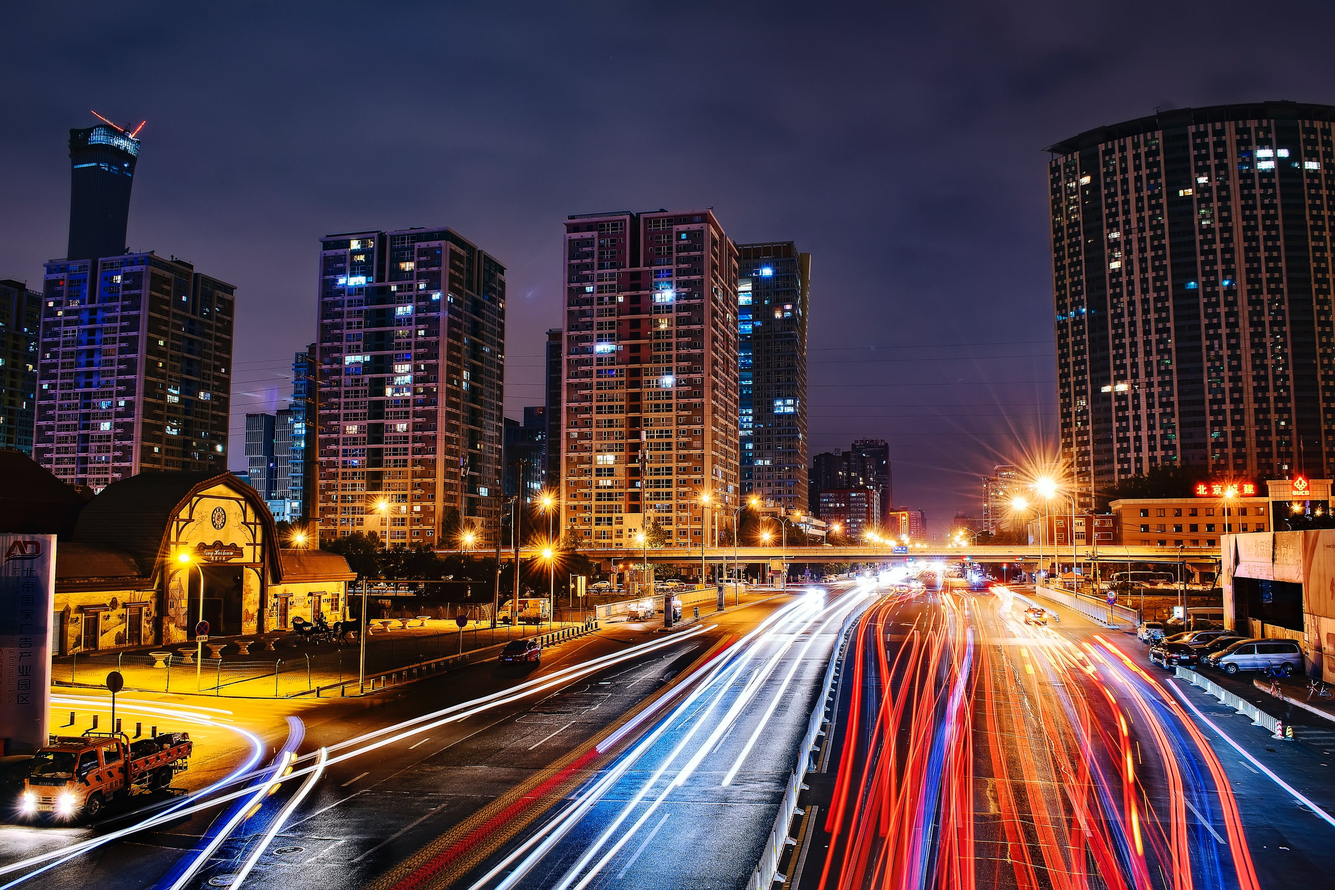
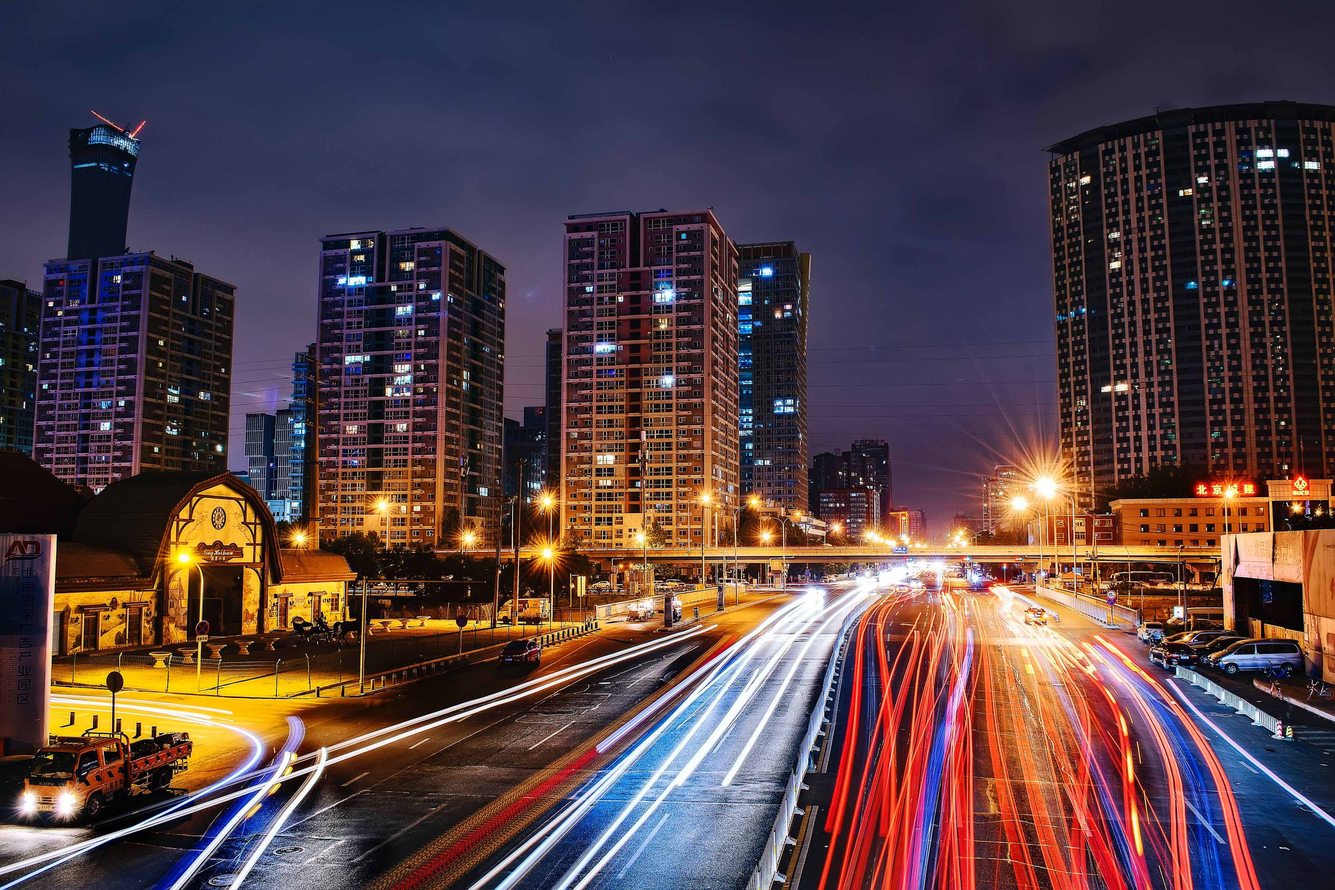
Reducing background image file size. Changing transition from 5s to 4s in the .card css style. Rearrage profile image class property to make it easier to see.

diff --git a/skills.html b/skills.html
@@ -26,7 +26,7 @@
     https://www.pexels.com/photo/time-lapse-photography-of-city-road-at-nighttime-1168940/
     -->
     <header>
-        <img src="images/portrait.jpg" alt="Portraight of Thanaphon, the website author" class="profile-image">
+        <img class="profile-image" src="images/portrait.jpg" alt="Portraight of Thanaphon, the website author">
         <h1 class="tag name">Hello, I’m Thanaphon.</h1>
         <p class="tag location">Bangkok, Thailand.</p>
     </header>

diff --git a/index.html b/index.html
@@ -22,7 +22,7 @@
     https://www.pexels.com/photo/time-lapse-photography-of-city-road-at-nighttime-1168940/
     -->
     <header>
-      <img src="images/portrait.jpg" alt="Portraight of Thanaphon, the website author" class="profile-image">
+      <img class="profile-image" src="images/portrait.jpg" alt="Portraight of Thanaphon, the website author" >
       <h1 class="tag name">Hello, I’m Thanaphon.</h1>
       <p class="tag location">Bangkok, Thailand.</p>
     </header>

diff --git a/styles.css b/styles.css
@@ -72,7 +72,7 @@ header .profile-image {
   height: 150px;
   border-radius: 50%;
   border: 3px solid white;
-  transition: all .5s;
+  transition: all .4s;
 }
 header .profile-image:hover {
   transform: scale(1.2) rotate(5deg);
